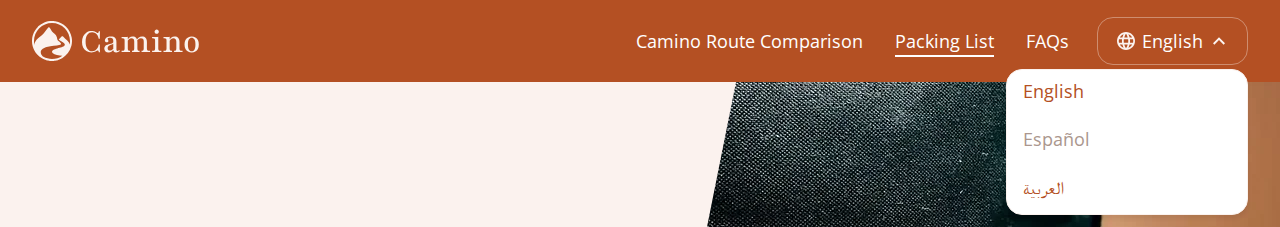
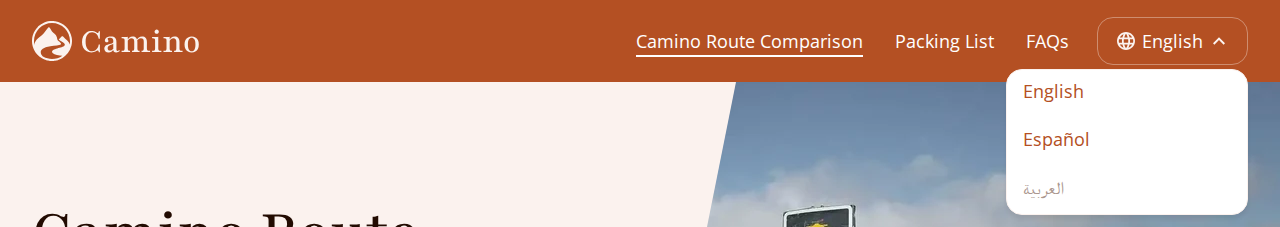
[BUGFIX] Mark default language fallbacks as available in language menu
Since TYPO3 15.0, a language menu marks a language as available if the
page is not translated into it, but the default language is one of its
fallbacks. The manual said that the menu grays out every language that
the page has no translation in. Take the screenshot on a page without
translations, so that it still shows a grayed-out language.

Resolves: https://github.com/TYPO3-Documentation/Changelog-To-Doc/issues/1978
Releases: main
Assisted-by: Claude Opus 5.5 <noreply@anthropic.com>

diff --git a/Build/Screenshots/create-records.php b/Build/Screenshots/create-records.php
@@ -108,9 +108,7 @@ $localize = static function (string $table, int $uid, int $language): int {
 };
 
 // The packing list in Arabic, as in the Editors Tutorial, so that the
-// Records module shows the translation of the page, and the language menu
-// of the page shows a language with a translation next to Spanish, which
-// has none
+// Records module shows the translation of the page
 $uids['packingList'] = $find('pages', 'title', 'Packing List', $uids['root']);
 $arabicPage = $localize('pages', $uids['packingList'], 2);
 $process(['pages' => [$arabicPage => ['title' => 'قائمة الأمتعة', 'hidden' => 0]]]);

diff --git a/Documentation/LanguageMenu/Index.rst b/Documentation/LanguageMenu/Index.rst
@@ -28,14 +28,27 @@ LanguageMenuProcessor example
 =============================
 
 The Camino theme shows a language menu in the header of the website. It lists
-the languages of the site, and grays out the languages that the page has no
-translation in:
+the languages of the site, and grays out the languages that the page is not
+available in. A page is available in a language if it has a translation in
+that language or in one of its fallbacks, or if the default language is one
+of its fallbacks, see
+`Localized content <https://docs.typo3.org/permalink/t3translate:localized-content>`_.
+If the page has the option
+`Hide page if no translation for current language exists <https://docs.typo3.org/permalink/t3translate:localization-overview-hide-missing-translations>`_,
+a fallback to the default language does not make it available.
+
+..  versionchanged:: 15.0
+    :changelog: important-103451-1793198547
+
+    A language whose fallbacks contain the default language is available,
+    also if the page has no translation. Before, the menu grayed it out.
 
 ..  figure:: /Images/GeneratedScreenshots/LanguageMenu/CaminoLanguageMenu.png
-    :alt: The open language menu of the website, with Español grayed out
+    :alt: The open language menu of the website, with العربية grayed out
     :class: with-shadow
 
-    The language menu of a page that has no Spanish translation
+    The language menu of a page without translations: Español falls back to
+    English, العربية has no fallback
 
 The following TypoScript code sets up such a menu with a
 :php-short:`\TYPO3\CMS\Frontend\DataProcessing\LanguageMenuProcessor`
